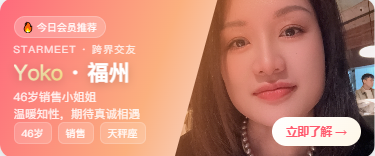
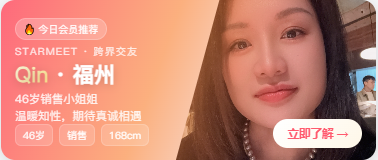
改名 Yoko->Qin（首页/列表/详情）+ 首页第三张轮播图替换为用户提供原图
- main.js: RAW_MEMBERS id=8 改名 Qin；活动参与者同步；轮播第三张引用 banner-yoko.png
- index.html: 今日之星/最新嘉宾卡片显示名、goMember、onerror 首字改为 Qin
- banner-yoko.png: 替换为用户提供的原图
- banner-all-preview / banner-right-preview: 可见文案 Yoko->Qin

diff --git a/assets/js/main.js b/assets/js/main.js
@@ -166,7 +166,7 @@
     { id:12, name:'顾辰',   gender:'男', img:12, age:30, city:'新泽西州', district:'', height:178, zodiac:'天秤座', job:'软件工程师', income:'30万以上', marriage:'未婚', education:'本科', housing:'有(无贷款)', car:'有', interests:'编程、登山、摄影', intro:'程序员但不宅，周末爱登山拍照。想找个能一起看世界的人。', uid:'00012', updated:'2026-07-19', photo:'assets/images/member-00012.jpg' },
     { id:13, name:'张沐阳', gender:'男', img:13, age:33, city:'加利福尼亚州', district:'', height:180, zodiac:'金牛座', job:'投资人', income:'30万以上', marriage:'未婚', education:'硕士', housing:'有(无贷款)', car:'有', interests:'金融、滑雪、红酒', intro:'投资人，看人很准。希望遇到一个真诚、有自己热爱的人。', uid:'00013', updated:'2026-07-19', photo:'assets/images/member-00013.jpg' },
     { id:14, name:'刘宇航', gender:'男', img:14, age:31, city:'明尼苏达州', district:'', height:175, zodiac:'双子座', job:'医生', income:'30万以上', marriage:'未婚', education:'博士', housing:'有(无贷款)', car:'有', interests:'医学研究、跑步、阅读', intro:'外科医生，忙但靠谱。期待一个理解我的节奏、温柔以待的人。', uid:'00014', updated:'2026-07-19', photo:'assets/images/member-00014.jpg' },
-    { id:8,  name:'Yoko',   gender:'女', photo:'assets/images/member-00008.jpg', uid:'00008', updated:'2026-07-19', birth:'1979-10-01', age:46, blood_type:'O型', weight:60, city:'福州', district:'', height:168, zodiac:'天秤座', job:'销售', income:'10万', marriage:'离异', education:'本科', housing:'无', car:'无', wechat:'15959005052', interests:'美食', intro:'一个人', expect_gender:'男', expect_age:'55-65岁', expect_height:'170-180cm', expect_education:'大专', expect_marriage:'不限', expect_income:'190万', expect_marry_time:'1年内', purpose:'寻找结婚对象', expect_other:'一个人' },
+    { id:8,  name:'Qin',    gender:'女', photo:'assets/images/member-00008.jpg', uid:'00008', updated:'2026-07-19', birth:'1979-10-01', age:46, blood_type:'O型', weight:60, city:'福州', district:'', height:168, zodiac:'天秤座', job:'销售', income:'10万', marriage:'离异', education:'本科', housing:'无', car:'无', wechat:'15959005052', interests:'美食', intro:'一个人', expect_gender:'男', expect_age:'55-65岁', expect_height:'170-180cm', expect_education:'大专', expect_marriage:'不限', expect_income:'190万', expect_marry_time:'1年内', purpose:'寻找结婚对象', expect_other:'一个人' },
     { id:15, name:'陈志远', gender:'男', img:15, age:52, city:'纽约', district:'', height:175, zodiac:'狮子座', job:'企业董事长', income:'30万以上', marriage:'离异', education:'本科', housing:'有(无贷款)', car:'有', interests:'高尔夫、阅读、旅行', intro:'沉稳务实的企业管理者，阅尽千帆更懂生活。希望遇到一位知性温柔的伴侣，一起慢享余生。', uid:'00015', updated:'2026-07-19', photo:'assets/images/member-00015.jpg', expect_gender:'女', expect_age:'40-55岁', expect_height:'160-175cm', expect_education:'本科', expect_marriage:'离异', expect_income:'不限', expect_marry_time:'1年内', purpose:'寻找结婚对象', expect_other:'真诚 温柔' },
     { id:16, name:'林浩然', gender:'男', img:16, age:50, city:'加利福尼亚州', district:'', height:178, zodiac:'天蝎座', job:'投资顾问', income:'30万以上', marriage:'未婚', education:'硕士', housing:'有(无贷款)', car:'有', interests:'金融、滑雪、红酒', intro:'华尔街背景的金融人士，理性而不失温度。期待一个独立、有想法的另一半，携手看世界。', uid:'00016', updated:'2026-07-19', photo:'assets/images/member-00016.jpg', expect_gender:'女', expect_age:'38-52岁', expect_height:'160-178cm', expect_education:'本科', expect_marriage:'不限', expect_income:'不限', expect_marry_time:'1-3年', purpose:'真诚交友', expect_other:'独立 有想法' },
     { id:17, name:'Nora', gender:'女', img:17, age:47, city:'福州', district:'', height:162, zodiac:'射手座', job:'创业者', income:'30万', marriage:'离异', education:'本科', housing:'有(无贷款)', car:'无', interests:'绘画、音乐、阅读、电影、旅行', intro:'人生真的会突然变好。契机可能是任何一件你做的事，或许是充足的睡眠后醒来想起的一个梦，或许是在阳光下散步时的惊鸿一瞥，或许是你出于好奇去研究的某个小爱好，或许是某一页书。生活里的每个瞬间都在悄悄托举你，它们给你的祝福可能会过很久才会灵验，但你要相信它一定会来，所有你做的事都会织成命运，把你吹到合适的地方。', birth:'1978-11-25', blood_type:'O型', weight:48, wechat:'13860099826', uid:'00017', updated:'2026-07-22', photo:'assets/images/member-00017.jpeg', detailPhoto:'assets/images/member-00017-detail.jpg', expect_gender:'男', expect_age:'35-65岁', expect_height:'不限', expect_education:'不限', expect_marriage:'不限', expect_income:'20万', expect_marry_time:'3年内', purpose:'寻找结婚对象', expect_other:'无不良嗜好' }
@@ -217,6 +217,9 @@
   const MEMBER_LIST = Object.keys(MEMBERS).map(function (k) { return MEMBERS[k]; });
   const MEMBER_BY_NAME = {};
   MEMBER_LIST.forEach(function (m) { MEMBER_BY_NAME[m.name] = m.id; });
+  // 暴露给资料卡等复用页面
+  window.MEMBERS = MEMBERS;
+  window.MEMBER_LIST = MEMBER_LIST;
 
   /* ---------- 跳转会员详情（兼容传姓名或编号） ---------- */
   window.goMember = function (key) {
@@ -482,7 +485,7 @@
         { t: '03', x: '加入官方群聊，接收最新交友资讯' }
       ],
       tips: ['活动全程免费，请通过官方腾讯问卷报名，谨防任何收费诈骗', '报名后请留意官方小助手消息，及时加入群聊接收最新资讯'],
-      participants: [['C','Cindy'],['熙','熙'],['K','Kelly'],['Y','Yoko']]
+      participants: [['C','Cindy'],['熙','熙'],['K','Kelly'],['Q','Qin']]
     },
     '2': {
       title: '跨界交友晚宴 · 国贸', cover: 1,

diff --git a/index.html b/index.html
@@ -63,7 +63,7 @@
         <!-- 今日之星 -->
         <div class="section-title">今日之星 <a class="more" href="match.html">更多 →</a></div>
         <div class="star-row">
-          <!-- 今日之星固定3位：Nora / 熙 / Yoko -->
+          <!-- 今日之星固定3位：Nora / 熙 / Qin -->
           <div class="star-card" onclick="goMember('Nora')">
             <div class="star-avatar">
               <img src="assets/images/member-00017.jpeg" onerror="avatarFallback(this,'N')">
@@ -82,12 +82,12 @@
             <div class="star-meta">35岁 · 福州</div>
             <div class="star-job">老师</div>
           </div>
-          <div class="star-card" onclick="goMember('Yoko')">
+          <div class="star-card" onclick="goMember('Qin')">
             <div class="star-avatar">
-              <img src="assets/images/member-00008.jpg" onerror="avatarFallback(this,'Y')">
+              <img src="assets/images/member-00008.jpg" onerror="avatarFallback(this,'Q')">
               <span class="online-dot"></span>
             </div>
-            <div class="star-name">Yoko</div>
+            <div class="star-name">Qin</div>
             <div class="star-meta">46岁 · 福州</div>
             <div class="star-job">销售</div>
           </div>
@@ -99,7 +99,7 @@
           <a class="more" href="match.html">更多 →</a>
         </div>
         <div class="member-list">
-          <!-- 最新嘉宾固定6名：Nora / 熙 / Yoko / Kelly / Cindy / 刘宇航 -->
+          <!-- 最新嘉宾固定6名：Nora / 熙 / Qin / Kelly / Cindy / 刘宇航 -->
           <div class="member-card" onclick="goMember('Nora')">
             <div class="member-card-photo">
               <img src="assets/images/member-00017.jpeg" onerror="avatarFallback(this,'N')">
@@ -124,12 +124,12 @@
               <div class="row3"><span></span></div>
             </div>
           </div>
-          <div class="member-card" onclick="goMember('Yoko')">
+          <div class="member-card" onclick="goMember('Qin')">
             <div class="member-card-photo">
-              <img src="assets/images/member-00008.jpg" onerror="avatarFallback(this,'Y')">
+              <img src="assets/images/member-00008.jpg" onerror="avatarFallback(this,'Q')">
             </div>
             <div class="member-card-info">
-              <div class="row1"><div class="meta-name">Yoko</div></div>
+              <div class="row1"><div class="meta-name">Qin</div></div>
               <div class="row-birthjob"><span class="birth-year">1979年</span><span class="job">销售</span></div>
               <div class="row2"><span>📍 福州</span><span>🎓 本科</span></div>
               <div class="row2"><span>📏 168cm</span><span>💰 10万</span></div>

diff --git a/banner-all-preview.html b/banner-all-preview.html
@@ -189,11 +189,11 @@
     <div class="banner-slide active slide-yoko">
       <img class="banner-bg" src="assets/images/member-00008.jpg" alt="">
       <div class="banner-overlay"></div>
-      <div class="photo-mask"><img src="assets/images/member-00008.jpg" alt="Yoko"></div>
+      <div class="photo-mask"><img src="assets/images/member-00008.jpg" alt="Qin"></div>
       <div class="content">
         <div class="badge-row"><span class="badge">🔥 今日会员推荐</span></div>
         <div class="tagline">STARMEET · 跨界交友</div>
-        <div class="title"><em>Yoko</em> · 福州</div>
+        <div class="title"><em>Qin</em> · 福州</div>
         <div class="subtitle">46岁销售小姐姐<br>温暖知性，期待真诚相遇</div>
         <div class="info-bar">
           <span class="chip">46岁</span><span class="chip">销售</span><span class="chip">168cm</span>
@@ -259,7 +259,7 @@
   <!-- 当前显示标签 -->
   <div class="label-row">
     <span class="label-num" id="lblNum">1</span>
-    <span class="label-name" id="lblName">Yoko</span>
+    <span class="label-name" id="lblName">Qin</span>
     <span>/ 共 3 张</span>
   </div>
 </div>
@@ -269,7 +269,7 @@
 <script>
 let cur = 0;
 const total = 3;
-const names = ['Yoko', 'Cindy', '熙'];
+const names = ['Qin', 'Cindy', '熙'];
 function goSlide(n){
   cur = n;
   update();

diff --git a/banner-right-preview.html b/banner-right-preview.html
@@ -63,7 +63,7 @@
 
   <div class="sec-title">① 纯裁切图（不带蒙层，确认人物半身/头部位置对不对）</div>
   <div class="row">
-    <div class="raw"><img src="C:/Users/Administrator/WorkBuddy/Claw/assets/images/banner-right-yoko.png"><div class="cap">Yoko</div></div>
+    <div class="raw"><img src="C:/Users/Administrator/WorkBuddy/Claw/assets/images/banner-right-yoko.png"><div class="cap">Qin</div></div>
     <div class="raw"><img src="C:/Users/Administrator/WorkBuddy/Claw/assets/images/banner-right-cindy.png"><div class="cap">Cindy</div></div>
     <div class="raw"><img src="C:/Users/Administrator/WorkBuddy/Claw/assets/images/banner-right-xi.png"><div class="cap">熙</div></div>
   </div>
@@ -77,7 +77,7 @@
       <div class="content">
         <span class="badge">🔥 今日会员推荐</span>
         <div class="tagline">STARMEET · 跨界交友</div>
-        <div class="title"><em>Yoko</em> · 福州</div>
+        <div class="title"><em>Qin</em> · 福州</div>
         <div class="subtitle">46岁销售小姐姐<br>温暖知性，期待真诚相遇</div>
         <div class="chiprow"><span class="chip">46岁</span><span class="chip">销售</span><span class="chip">168cm</span></div>
       </div>
